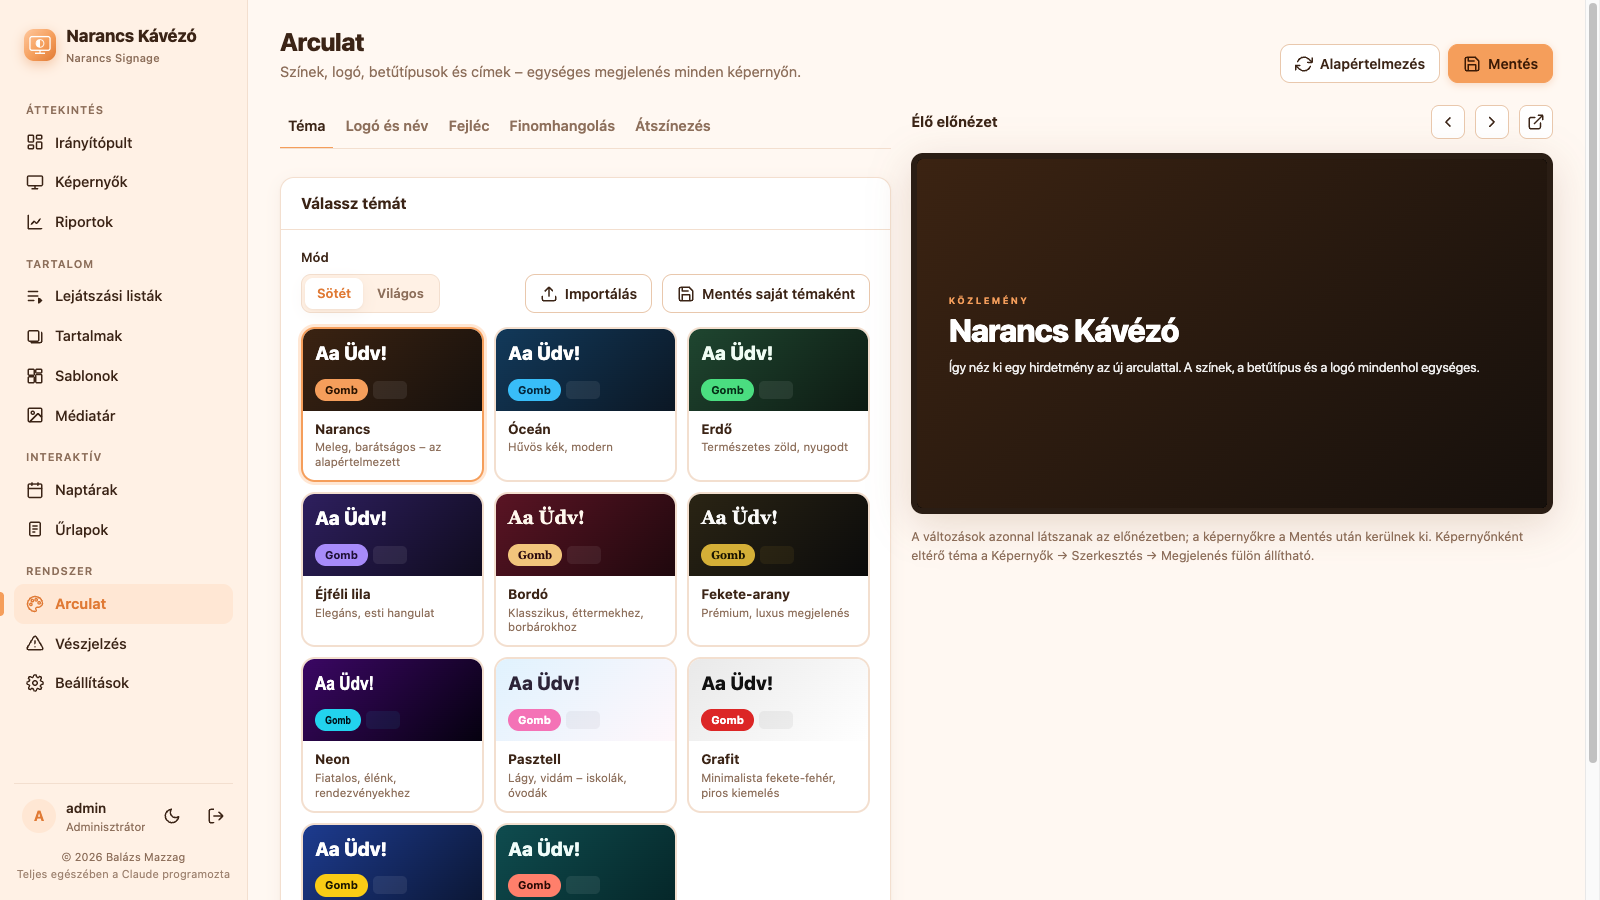
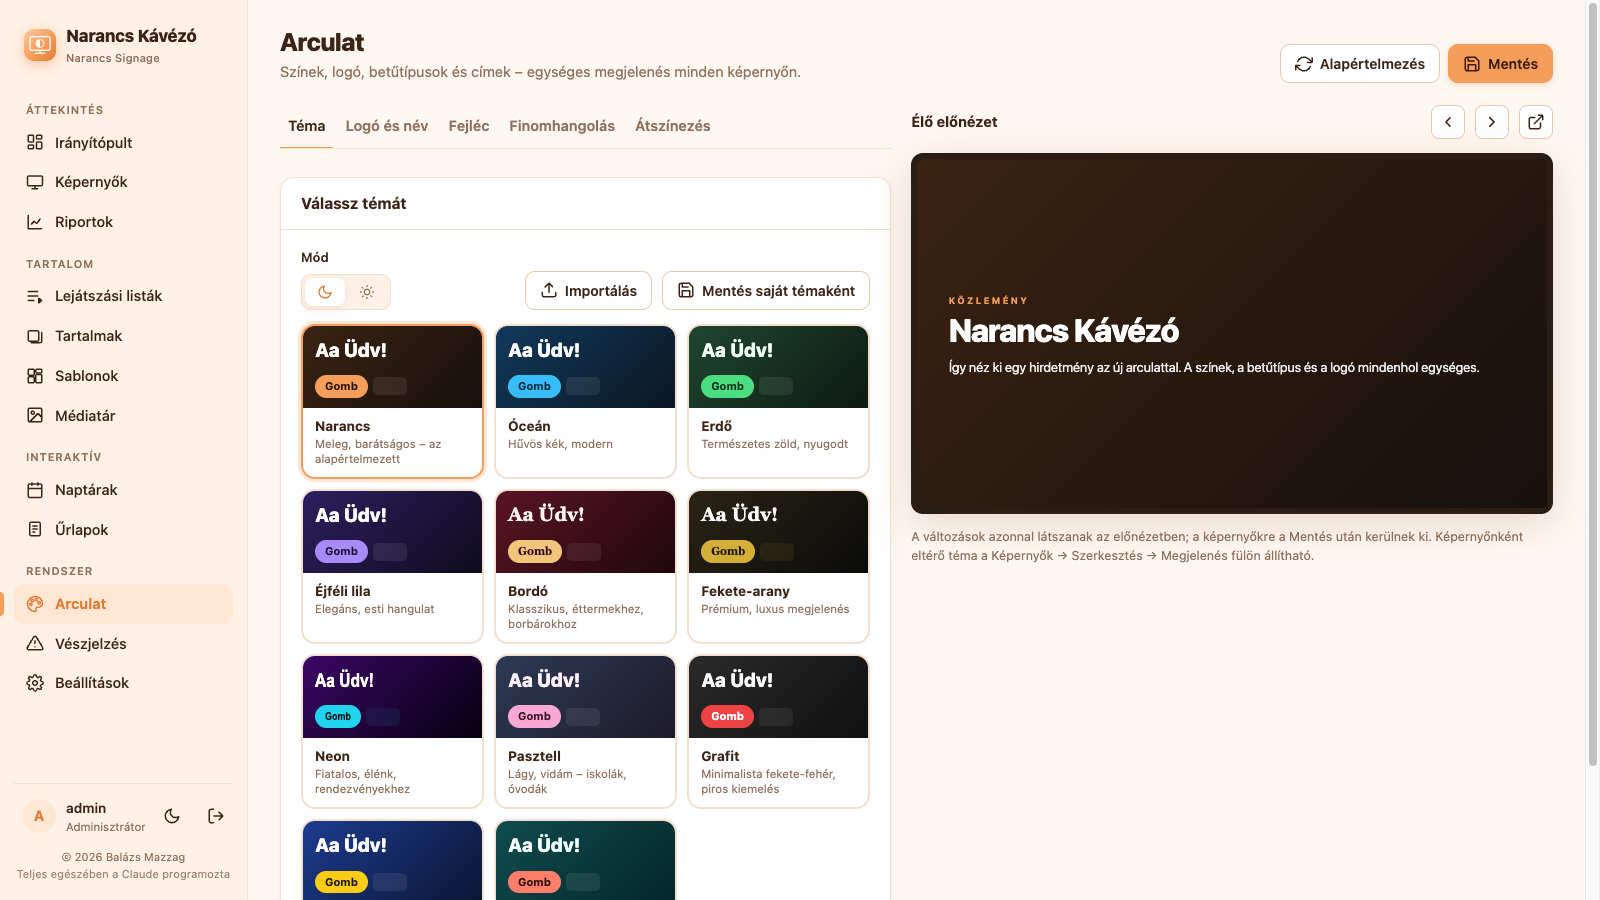
Arculat: a témacsempék a kiválasztott módot mutatják, hold/nap ikon a mód választón

Changed region(s): [[0.1875, 0.28, 0.5625, 1.0]]

diff --git a/server/public/admin/admin.js b/server/public/admin/admin.js
@@ -70,9 +70,12 @@
     touch: '<path d="M9 11V5a2 2 0 1 1 4 0v6M13 10a2 2 0 1 1 4 0v2M17 11a2 2 0 1 1 4 0v4a7 7 0 0 1-7 7h-2a7 7 0 0 1-5.6-2.8L3 15.5a2 2 0 0 1 3-2.6L9 15"/>',
     power: '<path d="M18.4 6.6a9 9 0 1 1-12.8 0M12 2v10"/>',
     moon: '<path d="M21 12.8A9 9 0 1 1 11.2 3a7 7 0 0 0 9.8 9.8z"/>',
+    sun: '<circle cx="12" cy="12" r="4"/><path d="M12 2v2M12 20v2M4.9 4.9l1.4 1.4M17.7 17.7l1.4 1.4M2 12h2M20 12h2M4.9 19.1l1.4-1.4M17.7 6.3l1.4-1.4"/>',
     palette: '<circle cx="13.5" cy="6.5" r="1.5"/><circle cx="17.5" cy="10.5" r="1.5"/><circle cx="8.5" cy="7.5" r="1.5"/><circle cx="6.5" cy="12.5" r="1.5"/><path d="M12 2a10 10 0 0 0 0 20c1 0 1.7-.8 1.7-1.7 0-.4-.2-.8-.4-1.1-.3-.3-.4-.7-.4-1.1 0-.9.8-1.7 1.7-1.7h2A5.5 5.5 0 0 0 22 11c0-5-4.5-9-10-9z"/>',
   };
   const icon = (n, cls = '') => { const s = document.createElementNS('http://www.w3.org/2000/svg', 'svg'); s.setAttribute('viewBox', '0 0 24 24'); s.setAttribute('class', 'i ' + cls); s.innerHTML = ICONS[n] || ''; return s; };
+  // sötét / világos mód választó ikonnal (a felirat súgóként és képernyőolvasónak marad)
+  const modeIcon = (n, label) => h('span', { class: 'seg-ic', title: label, 'aria-label': label }, icon(n));
   const btn = (label, onclick, { cls = '', ic, title, disabled } = {}) => h('button', { class: `btn ${cls}`, onclick, title, disabled, type: 'button' }, ic ? icon(ic) : null, label);
   const fmtBytes = (n) => { if (!n) return '0 B'; const u = ['B', 'KB', 'MB', 'GB', 'TB']; const i = Math.min(4, Math.floor(Math.log(n) / Math.log(1024))); return `${(n / 1024 ** i).toFixed(i ? 1 : 0)} ${u[i]}`; };
   const fmtDate = (t) => new Date(t).toLocaleString(LOCALE, { year: 'numeric', month: 'short', day: 'numeric', hour: '2-digit', minute: '2-digit' });
@@ -1019,7 +1022,7 @@
           F.number(tr('Hírszalag sebesség (%)'), st, 'ticker_speed', { min: 25, max: 400, placeholder: '100' }),
           F.color(tr('Hírszalag színe'), st, 'ticker_color'),
           F.select(tr('Arculat / téma'), st, 'theme', [['', tr('Globális arculat (Arculat menü)')], ...Object.entries({ ...window.SIGNAGE_THEMES.THEMES, ...(cache.custom_themes || {}) }).map(([k, t]) => [k, t.desc ? `${tr(t.name)} – ${tr(t.desc)}` : tr(t.name)])], { full: true, hint: tr('Ez a képernyő eltérő témát is használhat (pl. étterem bordó, recepció kék). A logó és a fejléc a globális marad.') }),
-          F.seg(tr('Sötét / világos mód'), st, 'theme_mode', [['', tr('A téma szerint')], ['dark', tr('Sötét')], ['light', tr('Világos')]], { def: '' }),
+          F.seg(tr('Sötét / világos mód'), st, 'theme_mode', [['', tr('A téma szerint')], ['dark', modeIcon('moon', tr('Sötét'))], ['light', modeIcon('sun', tr('Világos'))]], { def: '' }),
           F.color(tr('Kiemelő szín felülírása'), st, 'accent', { theme: false, hint: tr('Csak ezen a képernyőn, a téma kiemelő színe helyett') }));
       } else if (tab === 'power') {
         content = h('div', { class: 'fields' },
@@ -1906,9 +1909,10 @@
       });
     };
     const tile = ([k, t]) => {
-      const c = T.palette(t, b.mode || t.mode);
+      const c = T.palette(t, b.mode || theme().mode || 'dark');
       const el = h('button', { type: 'button', class: `theme-tile ${b.preset === k ? 'on' : ''}`, onclick: async () => {
         if (hasCustom() && b.preset !== k && !(await confirmBox(tr('A téma váltása törli az egyedi szín- és betűbeállításokat. Folytatod?'), { ok: tr('Téma váltása'), danger: false }))) return;
+        b.mode ||= theme().mode || 'dark'; // a kiválasztott mód marad, nem a téma alapértelmezése
         b.preset = k; b.colors = {}; delete b.font; delete b.head_font; delete b.radius;
         drawGallery(); drawCustom(); ch();
       } },
@@ -1930,7 +1934,7 @@
     };
     const drawGallery = () => {
       const prevMode = b.mode;
-      const modeSeg = F.seg(tr('Mód'), b, 'mode', [['dark', tr('Sötét')], ['light', tr('Világos')]], { def: theme().mode || 'dark', onchange: async () => {
+      const modeSeg = F.seg(tr('Mód'), b, 'mode', [['dark', modeIcon('moon', tr('Sötét'))], ['light', modeIcon('sun', tr('Világos'))]], { def: theme().mode || 'dark', onchange: async () => {
         // az egyedi színek az előző módhoz készültek
         if (Object.keys(b.colors).length) {
           if (!(await confirmBox(tr('A mód váltása törli az egyedi színeket. Folytatod?'), { ok: tr('Mód váltása'), danger: false }))) { b.mode = prevMode; if (b.mode === undefined) delete b.mode; return drawGallery(); }

diff --git a/server/public/admin/admin.css b/server/public/admin/admin.css
@@ -145,6 +145,7 @@ input[type="color"].input { padding: 3px; height: 40px; cursor: pointer; }
 .seg { display: inline-flex; background: var(--bg-2); border: 1px solid var(--border); border-radius: 10px; padding: 3px; gap: 2px; flex-wrap: wrap; }
 .seg button { border: 0; background: transparent; padding: 6px 12px; border-radius: 8px; cursor: pointer; font-weight: 600; font-size: 13px; color: var(--muted); }
 .seg button.on { background: var(--surface); color: var(--primary-strong); box-shadow: var(--shadow); }
+.seg .seg-ic { display: flex; align-items: center; } .seg .seg-ic .i { width: 16px; height: 16px; }
 .daypick { display: flex; gap: 4px; }
 .daypick button { width: 34px; height: 30px; border-radius: 8px; border: 1px solid var(--border-strong); background: var(--surface); cursor: pointer; font-size: 12px; font-weight: 600; }
 .daypick button.on { background: var(--primary); border-color: var(--primary); color: var(--on-primary); }
